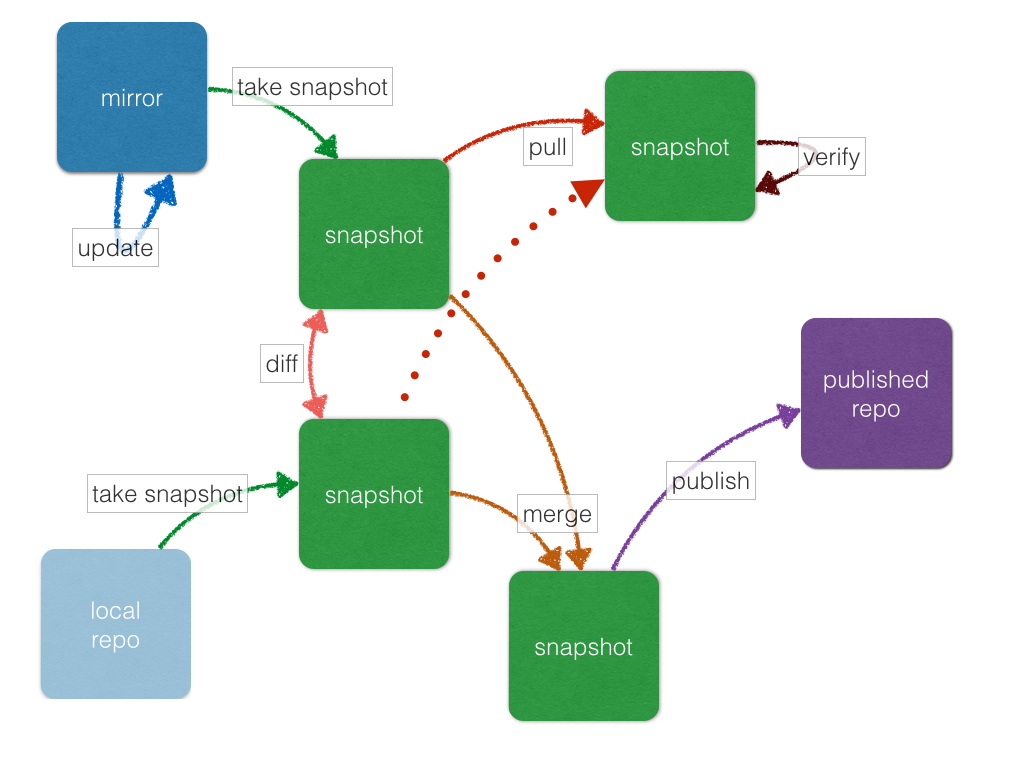
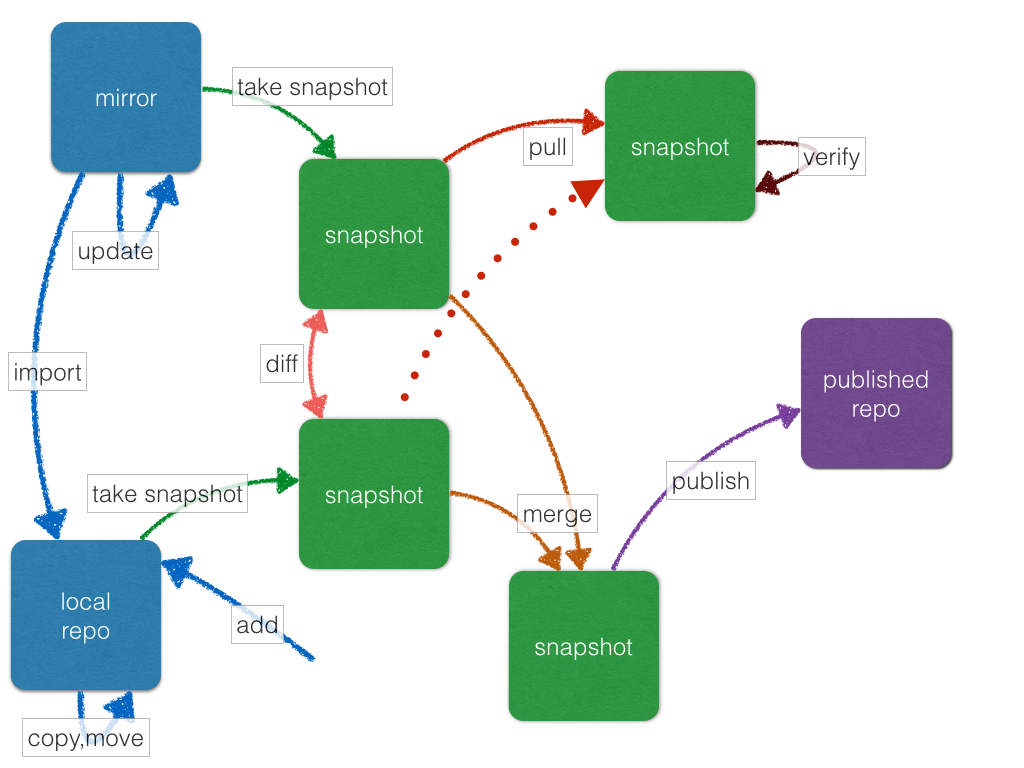
First set of changes related to local repository management.

diff --git a/index.html b/index.html
@@ -32,20 +32,34 @@
             <li><a href="https://github.com/smira/aptly/">GitHub</a></li>
             <li><a href="#examples">Examples</a></li>
             <li><a href="#download">Download</a></li>
-            <li><a href="#support">Support</a></li>
-            <li><a href="#configuration">Configuration</a></li>
             <li><a href="#usage">Usage</a></li>
             <li class="dropdown">
-              <a href="#" class="dropdown-toggle" data-toggle="dropdown">Commands <b class="caret"></b></a>
+              <a href="#" class="dropdown-toggle" data-toggle="dropdown">mirror <b class="caret"></b></a>
               <ul class="dropdown-menu">
-                <li class="dropdown-header">mirror</li>
                 <li><a href="#aptly-mirror-create">aptly mirror create</a></li>
                 <li><a href="#aptly-mirror-update">aptly mirror update</a></li>
                 <li><a href="#aptly-mirror-list">aptly mirror list</a></li>
                 <li><a href="#aptly-mirror-show">aptly mirror show</a></li>
                 <li><a href="#aptly-mirror-drop">aptly mirror drop</a></li>
-                <li class="divider"></li>
-                <li class="dropdown-header">snapshot</li>
+              </ul>
+            </li>
+            <li class="dropdown">
+              <a href="#" class="dropdown-toggle" data-toggle="dropdown">repo <b class="caret"></b></a>
+              <ul class="dropdown-menu">
+                <li><a href="#aptly-repo-create">aptly repo create</a></li>
+                <li><a href="#aptly-repo-add">aptly repo add</a></li>
+                <li><a href="#aptly-repo-import">aptly repo import</a></li>
+                <li><a href="#aptly-repo-show">aptly repo show</a></li>
+                <li><a href="#aptly-repo-list">aptly repo list</a></li>
+                <li><a href="#aptly-repo-copy">aptly repo copy</a></li>
+                <li><a href="#aptly-repo-move">aptly repo move</a></li>
+                <li><a href="#aptly-repo-remove">aptly repo remove</a></li>
+                <li><a href="#aptly-repo-drop">aptly repo drop</a></li>
+              </ul>
+            </li>
+            <li class="dropdown">
+              <a href="#" class="dropdown-toggle" data-toggle="dropdown">snapshot  <b class="caret"></b></a>
+              <ul class="dropdown-menu">
                 <li><a href="#aptly-snapshot-create">aptly snapshot create</a></li>
                 <li><a href="#aptly-snapshot-list">aptly snapshot list</a></li>
                 <li><a href="#aptly-snapshot-show">aptly snapshot show</a></li>
@@ -54,12 +68,19 @@
                 <li><a href="#aptly-snapshot-diff">aptly snapshot diff</a></li>
                 <li><a href="#aptly-snapshot-merge">aptly snapshot merge</a></li>
                 <li><a href="#aptly-snapshot-drop">aptly snapshot drop</a></li>
-                <li class="divider"></li>
-                <li class="dropdown-header">publish</li>
+              </ul>
+            </li>
+            <li class="dropdown">
+              <a href="#" class="dropdown-toggle" data-toggle="dropdown">publish <b class="caret"></b></a>
+              <ul class="dropdown-menu">
                 <li><a href="#aptly-publish-snapshot">aptly publish snapshot</a></li>
                 <li><a href="#aptly-publish-list">aptly publish list</a></li>
                 <li><a href="#aptly-publish-drop">aptly publish drop</a></li>
-                <li class="divider"></li>
+              </ul>
+            </li>
+            <li class="dropdown">
+              <a href="#" class="dropdown-toggle" data-toggle="dropdown">other <b class="caret"></b></a>
+              <ul class="dropdown-menu">
                 <li class="dropdown-header">db</li>
                 <li><a href="#aptly-db-cleanup">aptly db cleanup</a></li>
                 <li class="divider"></li>
@@ -79,8 +100,10 @@
       <div class="jumbotron">
         <h1>aptly</h1>
         <p>aptly is a swiss army knife for Debian repository management: it allows to mirror remote
-        repositories, take snapshots, pull new versions of packages along with dependencies,
-        publish snapshots.</p>
+        repositories, manage local package repositories, take snapshots, pull new versions of packages
+        along with dependencies, publish as Debian repository.</p>
+
+        <p>aptly is free <a href="https://github.com/smira/aptly">open-source</a> software licensed under MIT license.</p>
 
         <div id="carousel-ss" class="carousel slide" data-ride="carousel">
           <!-- Indicators -->
@@ -140,8 +163,11 @@
           <h4>Merge snapshots</h4>
           <p>Merge two or more snapshots into one snapshot: e.g. merge wheezy and wheezy-updates.</p>
 
-          <h4>Publish your packages <span class="glyphicon glyphicon-asterisk"></span></h4>
+          <h4>Publish your packages</h4>
           <p>Manage your own repositories of packages, merge them with offical and publish the result.</p>
+
+          <h4>Mirror repositories as-is <span class="glyphicon glyphicon-asterisk"></span></h4>
+          <p>Mirror official Debian repositories (as snapshots) without resigning by your own key.</p>
         </div>
         <div class="col-lg-6">
           <h4>Publish snapshot</h4>
@@ -156,6 +182,9 @@
 
           <h4>Package search <span class="glyphicon glyphicon-asterisk"></span></h4>
           <p>Search for specific packages, their inclusion into snapshots, etc.</p>
+
+          <h4>Support for yum repositories <span class="glyphicon glyphicon-asterisk"></span></h4>
+          <p>Manage packages for CentOS, RHEL, Fedora.</p>
         </div>
       </div>
 
@@ -169,8 +198,8 @@
 <div class="target-spacer" id="examples"><a name="examples"></a>&nbsp;</div>
 <h2>Examples</h2>
 
-      <p class="lead">Mirror main Debian repository for distribution squeeze only for architectures <code>i386</code>,
-      <code>amd64</code> and publish the result.</p>
+      <p class="lead">Mirror Debian repository distribution squeeze only for architectures <code>i386</code>,
+      <code>amd64</code> and publish the result:</p>
 
       <p><a href="#aptly-mirror-create">Create</a> mirror:</p>
 
@@ -244,7 +273,7 @@ Starting web server at: :8080 (press Ctrl+C to quit)...
 
 <pre><span class="greeting">$</span> <span class="command">apt-get update</span></pre>
 
-  <p class="lead">Pulling new version of <code>nginx</code> from <code>backports</code>.</p>
+  <p class="lead">Pulling new version of <code>nginx</code> from <code>backports</code>:</p>
 
   <p><a href="#aptly-mirror-create">Create</a> <code>backports</code> mirror, <a href="#aptly-mirror-update">download</a> it
       and <a href="#aplty-snapshot-create">take</a> snapshot:</p>
@@ -360,9 +389,15 @@ You can run 'aptly publish snapshot snap-deb-w-nginx' to publish snapshot as Deb
     <p><strong>Bash completion</strong> for aptly is available as <a href="https://github.com/aptly-dev/aptly-bash-completion">separate repo</a>.</p>
 
     <p>If you have Go environment set up (go 1.1+ required), you can build aptly from <strong>source</strong> by
-    running:</p>
+    cloning it and building with gom:</p>
 
-<pre><span class="greeting">$</span> <span class="command">go get github.com/smira/aptly</span></pre>
+<pre><span class="greeting">$</span> <span class="command">go get github.com/mattn/gom</span>
+<span class="greeting">$</span> <span class="command">git clone https://github.com/smira/aptly.git</span>
+<span class="greeting">$</span> <span class="command">cd aptly</span>
+<span class="greeting">$</span> <span class="command">git checkout v0.3</span>
+<span class="greeting">$</span> <span class="command">gom build -o ~/bin/aptly</span>
+<span class="greeting">$</span> <span class="command">~/bin/aptly</span>
+</pre>
 
 <!-- ================ support ============== -->
 <div class="target-spacer" id="support"><a name="support"></a>&nbsp;</div>
@@ -372,12 +407,74 @@ You can run 'aptly publish snapshot snap-deb-w-nginx' to publish snapshot as Deb
   <a href="https://groups.google.com/forum/#!forum/aptly-discuss">aptly-discuss mailing list</a> or file
   an <a href="https://github.com/smira/aptly/issues">issue on GitHub</a>.</p>
 
-  <p>Also consider following me <a href="https://twitter.com/smira/">@smira</a> to get updates about aptly.
+  <p>Please following me (<a href="https://twitter.com/smira/">@smira</a>) to get updates about aptly.
 
 
-<!-- ================ configuration ============== -->
-<div class="target-spacer" id="configuration"><a name="configuration"></a>&nbsp;</div>
-<h2>Configuration</h2>
+
+<!-- ================ usage ============== -->
+<div class="target-spacer" id="usage"><a name="usage"></a>&nbsp;</div>
+<h2>Usage</h2>
+
+
+  <p>
+  aptly goal is to establish repeatiblity and controlled changes in package environment. aptly allows
+  to fix set of packages in repository, so that package installation and upgrade becomes deterministic.
+  At the same time aptly allows to perform controlled, fine-grained changes in repository contents to
+  transition your package environment to new version.</p>
+
+  <div class="target-spacer" id="usage"><a name="core-concepts"></a>&nbsp;</div>
+  <h3>Core Concepts</h3>
+
+  <dl class="dl-horizontal">
+    <dt>mirror</dt>
+    <dd>mirror of remote repository, consists of metadata, list of packages and package files</dd>
+
+    <dt>local repo</dt>
+    <dd>local package repository, consists of metadata, packages and files, packages could be easily added and removed</dd>
+
+    <dt>snapshot</dt>
+    <dd>immutable list of packages, basic block to implement repeatability and controlled changes</dd>
+
+    <dt>published repository</dt>
+    <dd>published representation of snapshot, ready to be consumed by apt tools</dd>
+  </dl>
+
+  <p>The schema of aptly's commands and transitions between entities:</p>
+
+  <p><img src="schema.png" class="img-responsive" alt="aptly snapshot diff"></p>
+
+  <p>We can start with creating <a href="#aptly-mirror-create">mirrors of remote repositories</a>. Also
+  you can create <a href="#aptly-repo-create">local package repositories</a> and import there packages
+  as files. Local repos could be modified by <a href="#aptly-repo-copy">copying</a> and <a href="#aptly-repo-move">moving</a>
+  packages between local repositories and <a href="#aptly-repo-import">importing</a> them from mirrors.
+  Snapshot could be <a href="#aptly-snapshot-create">created</a> from remote repository
+  (official Debain repositories, backports, 3rd party repos, etc.) or your local repository (custom built
+  packages, your own software). Snapshots
+  can be used to produce new snapshots by <a href="#aptly-snapshot-pull">pulling</a> packages with dependencies between snapshots
+  and by <a href="#aptly-snapshot-merge">merging</a> snapshots. Any snapshot can be
+  <a href="#aptly-publish-snapshot">published</a> to any location
+  (distribution name, prefix) and consumed by <code>apt</code> tools on your Debian systems.</p>
+
+  <div class="target-spacer" id="usage"><a name="commands"></a>&nbsp;</div>
+  <h3>Commands</h3>
+      <p>Aptly supports commands in three basic categories:</p>
+
+      <ul>
+      <li>  <code>mirror</code>: manage, update mirrors of remote repositories
+      </li>
+      <li>  <code>repo</code>: manage local package repositories, add, remove, move, copy packages
+      </li>
+      <li>  <code>snapshot</code>: create, merge, manage snapshots
+      </li>
+      <li>  <code>publish</code>: publish snapshot as remote repo
+      </li>
+      <li>  <code>serve</code>: quickly export published repositories via HTTP
+      </li>
+      </ul>
+
+  <!-- ================ configuration ============== -->
+  <div class="target-spacer" id="configuration"><a name="configuration"></a>&nbsp;</div>
+  <h3>Configuration</h3>
 
     <p>aptly looks for configuration file in <code>/etc/aptly.conf</code> and
     <code>~/.aptly.conf</code>, if no config file found, new one is created. If <code>-config=</code> flag is
@@ -433,63 +530,8 @@ You can run 'aptly publish snapshot snap-deb-w-nginx' to publish snapshot as Deb
     </ul>
 
     <div class="alert alert-warning"><strong>Warning:</strong> <code>rootDir</code> contains all the downloaded packages from remote mirrors,
-      so it should have enough space for that. For example mirror of Debian wheezy on amd64 and i386 requires 70G of disk space.
+      so it should have enough space. For example. mirror of Debian wheezy (amd64 and i386) requires 70 GiB of disk space.
     </div>
-
-
-<!-- ================ usage ============== -->
-<div class="target-spacer" id="usage"><a name="usage"></a>&nbsp;</div>
-<h2>Usage</h2>
-
-
-  <p>
-  aptly goal is to establish repeatiblity and controlled changes in package environment. aptly allows
-  to fix set of packages in repository, so that package installation and upgrade becomes deterministic.
-  At the same time aptly allows to perform controlled, fine-grained changes in repository contents to
-  transition your package environment to new version.</p>
-
-  <div class="target-spacer" id="usage"><a name="core-concepts"></a>&nbsp;</div>
-  <h3>Core Concepts</h3>
-
-  <dl class="dl-horizontal">
-    <dt>mirror</dt>
-    <dd>mirror of remote repository, consists of metadata, list of packages and package files</dd>
-
-    <dt>snapshot</dt>
-    <dd>immutable list of packages, basic block to implement repeatability and controlled changes</dd>
-
-    <dt>published repository</dt>
-    <dd>published representation of snapshot, ready to be consumed by apt tools</dd>
-  </dl>
-
-  <p>The schema of aptly's commands and transitions between entities:</p>
-
-  <p><img src="schema.png" class="img-responsive" alt="aptly snapshot diff"></p>
-  <p class="text-muted">* local repo hasn't been implemented yet</p>
-
-  <p>First, mirrors of remote repositories should be <a href="#aptly-mirror-create">set up</a>.
-  Snapshot is being <a href="#aptly-snapshot-create">created</a> from remote repository
-  (official Debain repositories, backports, 3rd party repos, etc.). Snapshots
-  can be changed by <a href="#aptly-snapshot-pull">pulling</a> packages with dependencies between snapshots,
-  <a href="#aptly-snapshot-merge">merging</a> snapshots. Any snapshot can be
-  <a href="#aptly-publish-snapshot">published</a> to any location
-  (distribution name, prefix) and consumed by <code>apt</code> tools.</p>
-
-  <div class="target-spacer" id="usage"><a name="commands"></a>&nbsp;</div>
-  <h3>Commands</h3>
-      <p>Aptly supports commands in three basic categories:</p>
-
-      <ul>
-      <li>  <code>mirror</code>: manage, update mirrors of remote repositories
-      </li>
-      <li>  <code>snapshot</code>: create, merge, manage snapshots
-      </li>
-      <li>  <code>publish</code>: publish snapshot as remote repo
-      </li>
-      <li>  <code>serve</code>: quickly export published repositories via HTTP
-      </li>
-      </ul>
-
 
   <!-- ================ common options ============== -->
   <div class="target-spacer" id="common-options"><a name="common-options"></a>&nbsp;</div>
@@ -805,6 +847,35 @@ Mirror `wheezy-main` has been removed.</pre>
 Snapshot monday-updates successfully created.
 You can run 'aptly publish snapshot monday-updates' to publish snapshot as Debian repository.
 </pre>
+
+  <div class="target-spacer">&nbsp;</div>
+  <h4>Command <code>aptly snapshot create .. from repo</code></h4>
+
+    <p>Creates snapshot from current state of local package repository. Repository
+    should contain at least one package.</p>
+
+    <p>Snapshot would contain exactly the same set of packages as local repositorory currently does.
+    Snapshot is immutable, so if local repository is changed in any way, snapshot contents won't change.</p>
+
+    <p>Usage:</p>
+
+    <pre><span class="greeting">$</span> <span class="command">aptly snapshot create &lt;name&gt; from repo &lt;repo-name&gt;</span></pre>
+
+    <p>Params are:</p>
+
+    <ul>
+    <li>  <code>name</code> is a name for the snapshot to be created</li>
+    <li>  <code>repo-name</code> is a local repository name</li>
+    </ul>
+
+    <p>Example:</p>
+
+<pre><span class="greeting">$</span> <span class="command">aptly snapshot create snap-stable from repo stable</span>
+
+Snapshot snap-stable successfully created.
+You can run 'aptly publish snapshot snap-stable' to publish snapshot as Debian repository.
+</pre>
+
 
   <div class="target-spacer">&nbsp;</div>
   <h4>Command <code>aptly snapshot create .. empty</code></h4>
@@ -1417,6 +1488,10 @@ Starting web server at: 127.0.0.1:8765 (press Ctrl+C to quit)...
     <li>new config: <code>downloadSourcePackages</code> to enable source package downloading</li>
     <li>new flag: <code>-with-sources</code> for <a href="#aptly-mirror-create">aptly mirror create</a> command</li>
     <li>new config &amp; flag: <code>dependencyFollowSource</code> &amp; <code>-dep-follow-source</code> to follow <code>Source:</code> dependencies</li>
+    <li>packages are printed in lists with underscores instead of dashes, e.g. <code>pkg_1.3-3_amd64</code> instead of <code>pkg-1.3-3-amd64</code></li>
+    <li>local package repositories are supported</li>
+    <li>new commands in <code>aptly repo</code> family: <a href="#aptly-repo-add">add</a>, <a href="#aptly-repo-copy">copy</a>, <a href="#aptly-repo-create">create</a>, <a href="#aptly-repo-drop">drop</a>, <a href="#aptly-repo-import">import</a>, <a href="#aptly-repo-list">list</a>, <a href="#aptly-repo-move">move</a>, <a href="#aptly-repo-remove">remove</a> and <a href="#aptly-repo-show">show</a></li>
+    <li>command <a href="#aptly-snapshot-create">aptly snapshot create</a> supports creation of snapshots from local repos</li>
   </ul>
 
   <h3>Version 0.3</h3>
